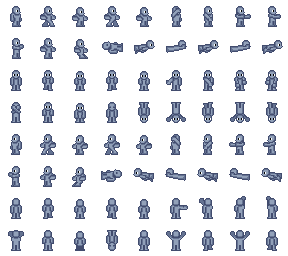
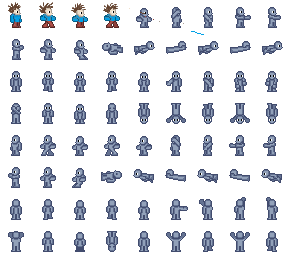
Updated colors + added staff

diff --git a/game.py b/game.py
@@ -833,18 +833,42 @@ class Hero(Character):
             # Fallback to a colored rectangle if sprite loading failed
             pygame.draw.rect(screen, (255, 255, 255), (self.x - camera_x, self.y, self.width, self.height))
         if self.holding_staff and STAFF_IMG:
-            staff_scaled = pygame.transform.scale(STAFF_IMG, (64, 128))
-            staff_rotated = pygame.transform.rotate(staff_scaled, -45 if self.facing_right else 45)
-
-            staff_x = self.x - camera_x + (self.width // 2) - 10
-            staff_y = self.y - 20
-            staff_rect = staff_rotated.get_rect(center=(staff_x, staff_y))
-            screen.blit(staff_rotated, staff_rect.topleft)
+            # Get original staff size and scale it up slightly (1.5x)
+            original_width, original_height = STAFF_IMG.get_size()
+            scale_factor = 1.5
+            staff_width = int(original_width * scale_factor)
+            staff_height = int(original_height * scale_factor)
+            staff_scaled = pygame.transform.scale(STAFF_IMG, (staff_width, staff_height))
+            
+            # Rotate staff based on facing direction
+            angle = -45 if self.facing_right else 45  # 45 degrees right, -45 degrees left
+            staff_rotated = pygame.transform.rotate(staff_scaled, angle)
+            
+            # Vertical position - hands are about 70% down the character
+            hand_offset_y = self.height * 0.7
+            
+            # Horizontal position - adjust based on facing direction
+            if self.facing_right:
+                # Position on right side but closer to body when facing right
+                staff_x = self.x - camera_x + self.width - (staff_width * 1.1)  # Increased from 0.7 to 0.9 to move left
+            else:
+                # Position on left side but closer to body when facing left
+                staff_x = self.x - camera_x - self.width + (staff_width * 1.7)  # Increased from 0.3 to 0.5 to move right
+            
+            # Vertical position - align bottom of staff with hands
+            staff_y = self.y + hand_offset_y - staff_height
+            
+            # Draw the staff
+            screen.blit(staff_rotated, (staff_x, staff_y))
     def shoot_projectile(self, vx, vy):
+        if not self.holding_staff:
+            return None  # Can't shoot without the staff
+            
         if DEBUG_MODE:
             # print(f"Attempting to shoot projectile with velocity: ({vx:.2f}, {vy:.2f})")
             # print(f"Cooldown: {self.projectile_cooldown}")
             pass
+            
         if self.projectile_cooldown <= 0:
             projectile = Projectile(self.x + self.width // 2, 
                                   self.y + self.height // 2,
@@ -853,9 +877,12 @@ class Hero(Character):
             if DEBUG_MODE:
                 # print(f"Hero shot projectile at x={self.x}, y={self.y} with velocity=({vx:.2f}, {vy:.2f})")
                 # print(f"Projectile created at x: {projectile.x}, y: {projectile.y}")
-                if not self.is_jumping:
-                    self.walk_anim_index = 0
-                self.walk_anim_timer = 0
+                pass
+            if not self.is_jumping:
+                self.walk_anim_index = 0
+            self.walk_anim_timer = 0
+            return projectile
+        return None
 
     # Animation logic has been moved to the update method
 
@@ -933,19 +960,10 @@ def main():
                     vx = (dx / dist) * PROJECTILE_SPEED
                     vy = (dy / dist) * PROJECTILE_SPEED
                     
-                    # Create a new projectile
-                    try:
-                        projectile = Projectile(
-                            hero_cx,  # x
-                            hero_cy,  # y
-                            vx,       # velocity x
-                            vy        # velocity y
-                        )
+                    # Use hero's shoot_projectile method which checks for staff
+                    projectile = hero.shoot_projectile(vx, vy)
+                    if projectile:  # Only add if hero is holding staff and cooldown allows
                         projectiles.append(projectile)
-                        # print(f"Fired projectile at ({vx:.1f}, {vy:.1f})")
-                    except Exception as e:
-                        # print(f"Error creating projectile: {e}")
-                        pass
                     
                 except Exception as e:
                     # print(f"Error shooting projectile: {e}")

diff --git a/generate_assets.py b/generate_assets.py
@@ -45,11 +45,15 @@ def generate_assets():
             "size": (32, 32),
         },
         "stone": {
-            "description": "stone",
+            "description": "stone, pixelated, light gray",
             "size": (32, 32),
         },
         "wizard_staff": {
-            "description": "wizard staff, small and simple, pixelated, dark wood, white tip, long handle",
+            "description": "wizard staff, small and simple, pixelated, dark wood, white tip, medium sized handle",
+            "size": (32, 32),
+        },
+        "cobblestone": {
+            "description": "cobblestone, pixelated, dark gray, smooth surface, rough edges",
             "size": (32, 32),
         },
     }
